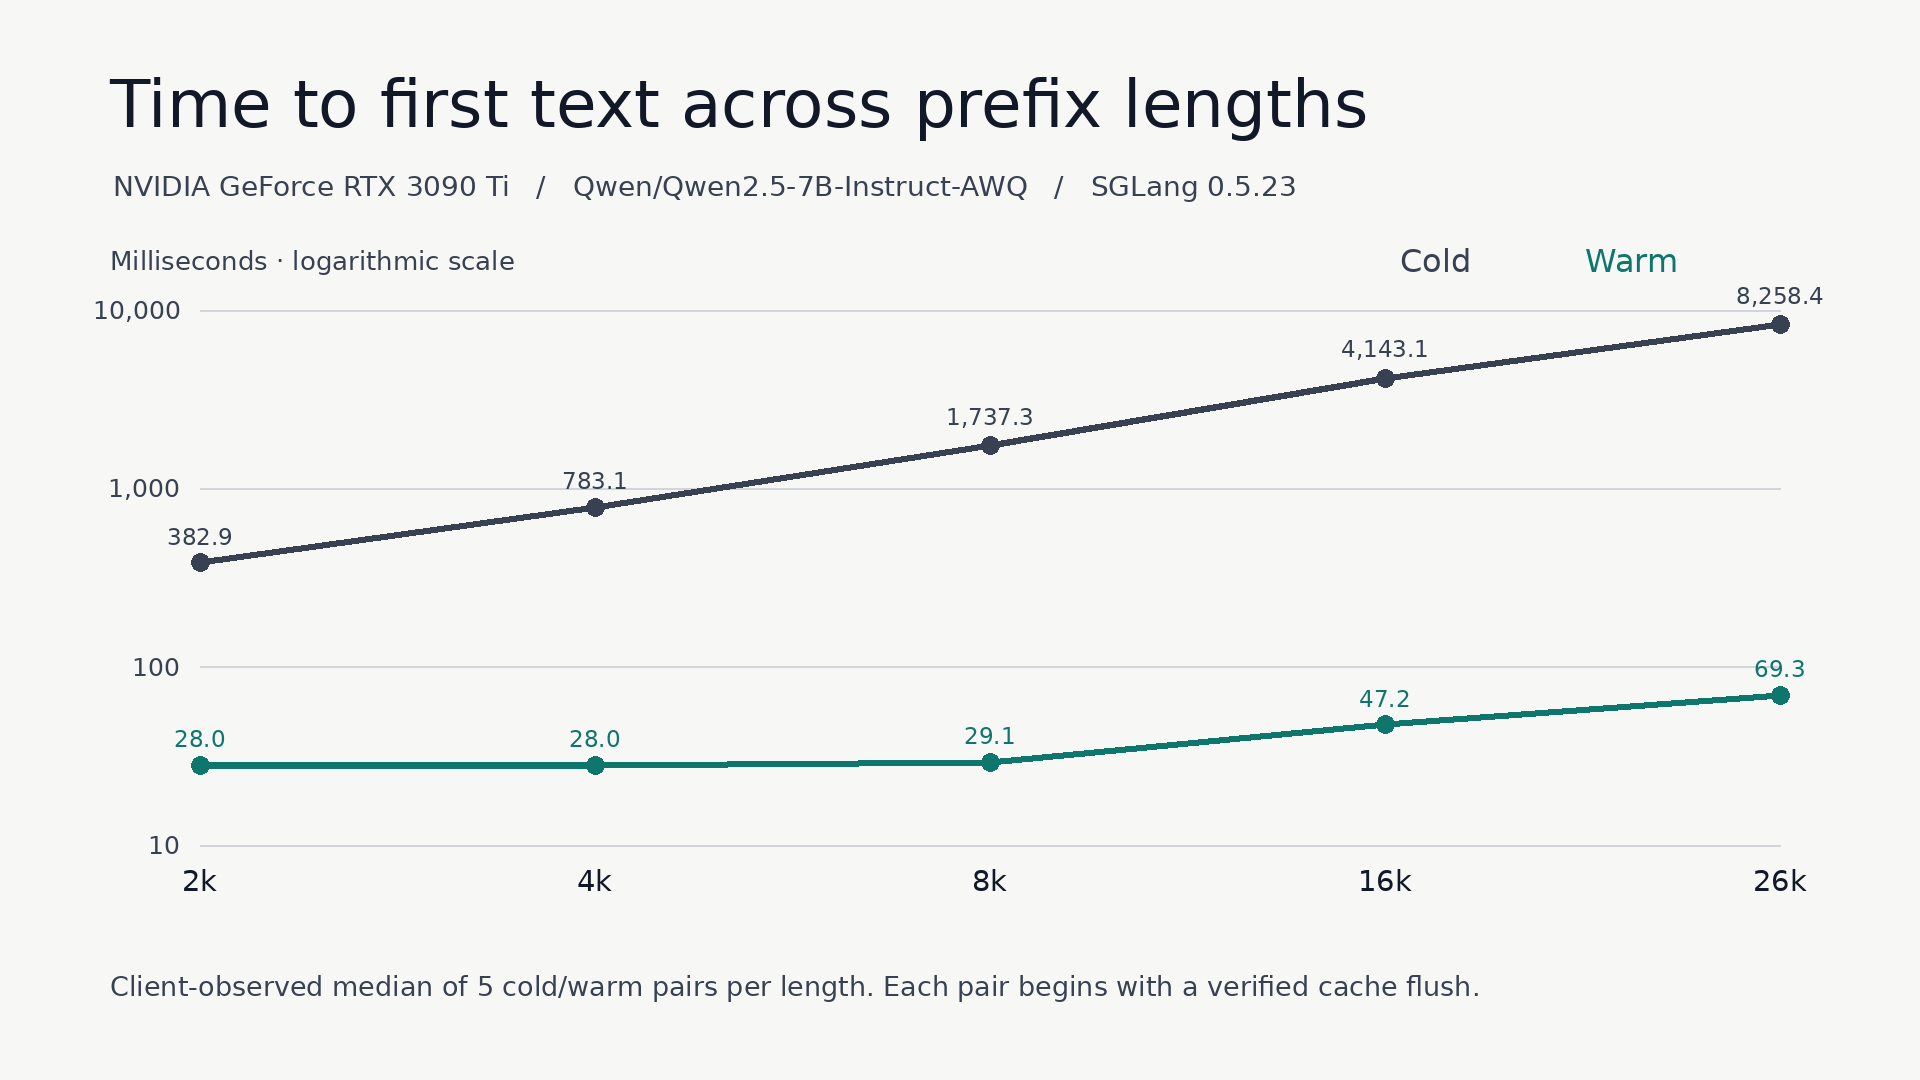
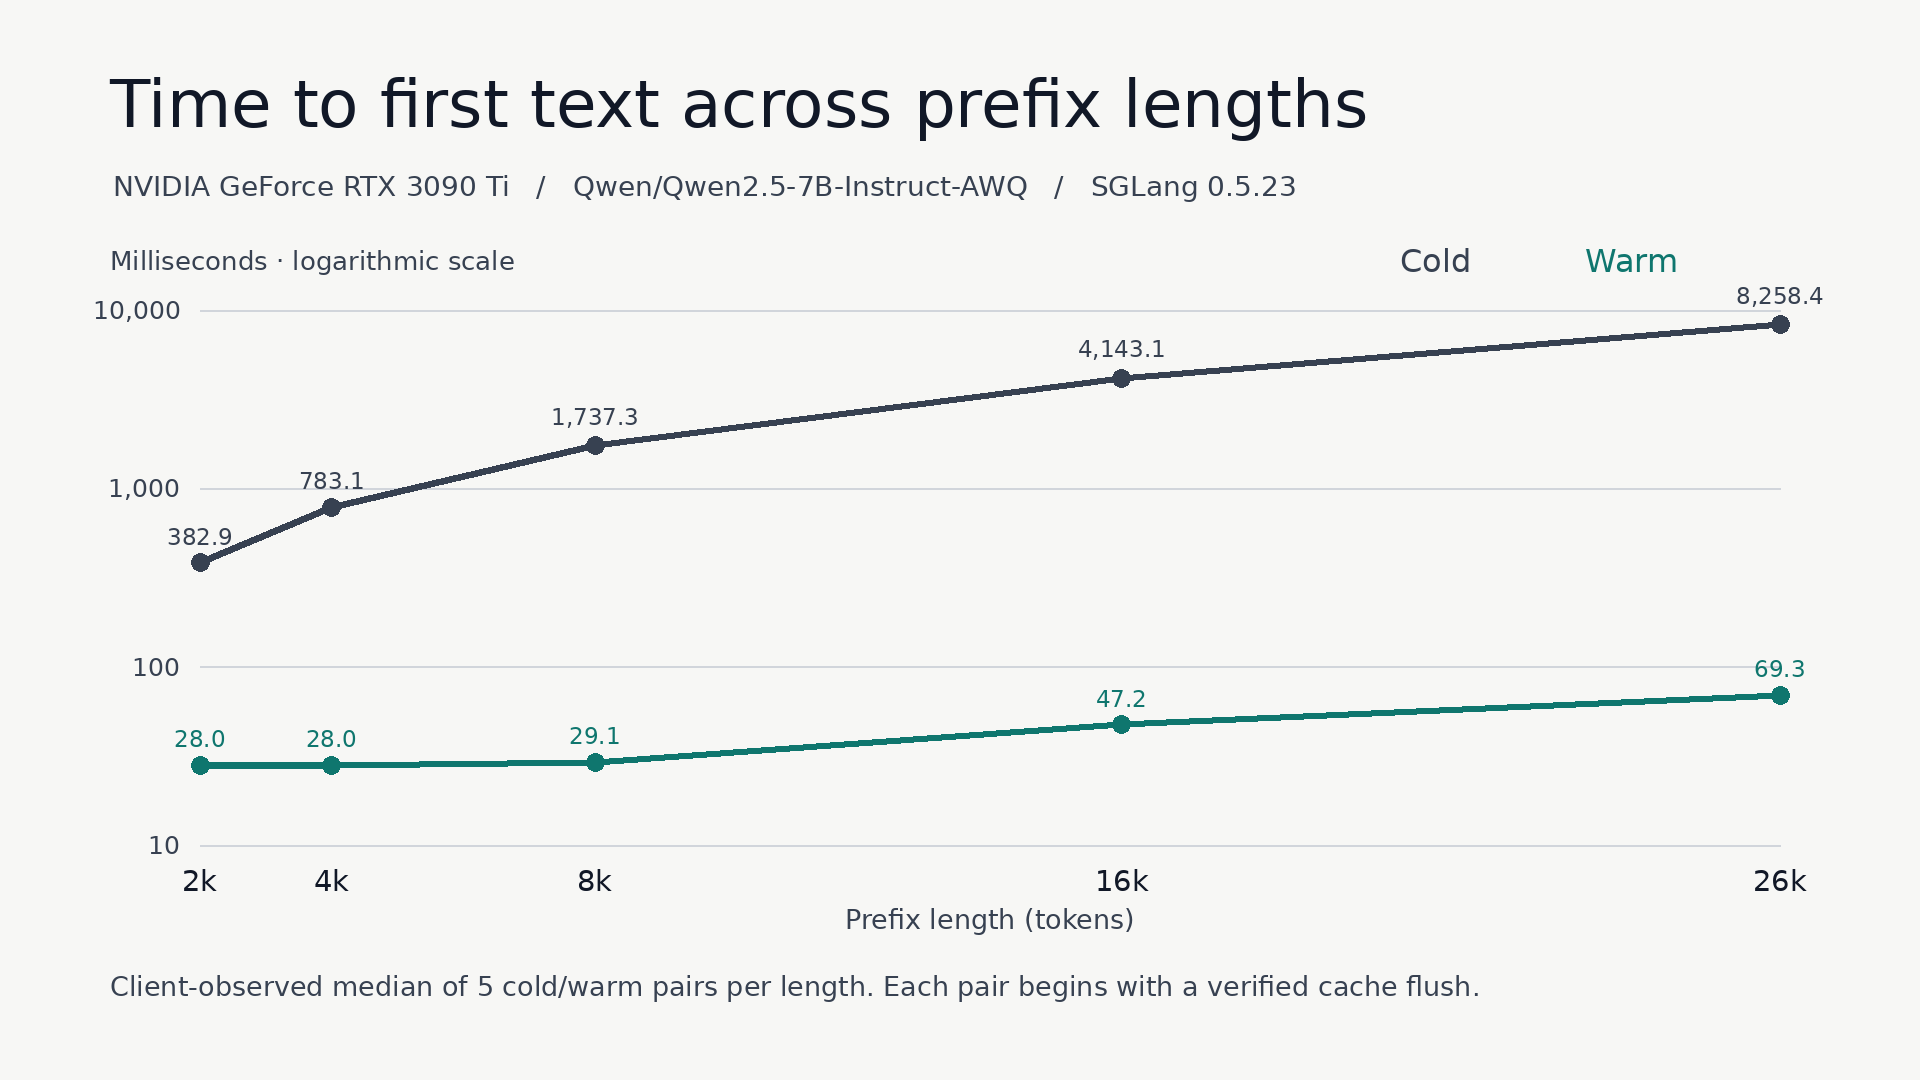
C3: Plot prefix lengths at their measured token coordinates

diff --git a/bench/calibrate.py b/bench/calibrate.py
@@ -26,6 +26,9 @@ def render(data):
     top, bottom, left, right = 310, 845, 200, 1780
     values = [b[k] for b in data["bands"] for k in ("cold_p50_ms","warm_p50_ms")]
     low, high = math.floor(math.log10(min(values))), math.ceil(math.log10(max(values)))
+    lengths = [b["prefix_tokens"] for b in data["bands"]]
+    def x(tokens):
+        return left + (tokens - lengths[0]) * (right - left) / (lengths[-1] - lengths[0])
     def y(v):
         return bottom - (math.log10(v)-low) * (bottom-top) / (high-low)
     for n in range(low, high+1):
@@ -34,7 +37,7 @@ def render(data):
         draw.text((left-20,yy),f"{10**n:,}",font=font(25),fill="#374151",anchor="rm")
     draw.text((110,245),"Milliseconds · logarithmic scale",font=font(26),fill="#374151")
     for j, (field, color, label) in enumerate((("cold_p50_ms","#374151","Cold"),("warm_p50_ms","#0f766e","Warm"))):
-        points = [(left+i*(right-left)/(len(data['bands'])-1),y(b[field])) for i,b in enumerate(data["bands"])]
+        points = [(x(b["prefix_tokens"]), y(b[field])) for b in data["bands"]]
         draw.line(points,fill=color,width=7)
         for (xx,yy),band in zip(points,data["bands"]):
             draw.ellipse((xx-9,yy-9,xx+9,yy+9),fill=color)
@@ -42,6 +45,7 @@ def render(data):
             if j==0:
                 draw.text((xx,bottom+24),f"{band['prefix_tokens']//1000}k",anchor="mt",font=font(29),fill="#111827")
         draw.text((1400+j*185,242),label,font=font(32),fill=color)
+    draw.text(((left + right) / 2, 908), "Prefix length (tokens)", anchor="mt", font=font(27), fill="#374151")
     pairs = len(data["bands"][0]["runs"])
     draw.text((110,970),f"Client-observed median of {pairs} cold/warm pairs per length. Each pair begins with a verified cache flush.",font=font(27),fill="#374151")
     PLOT.parent.mkdir(exist_ok=True)
